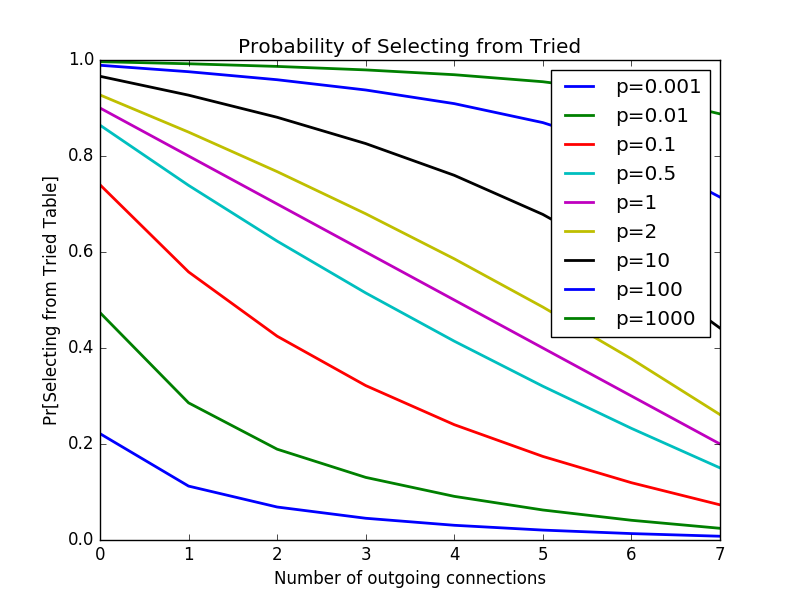
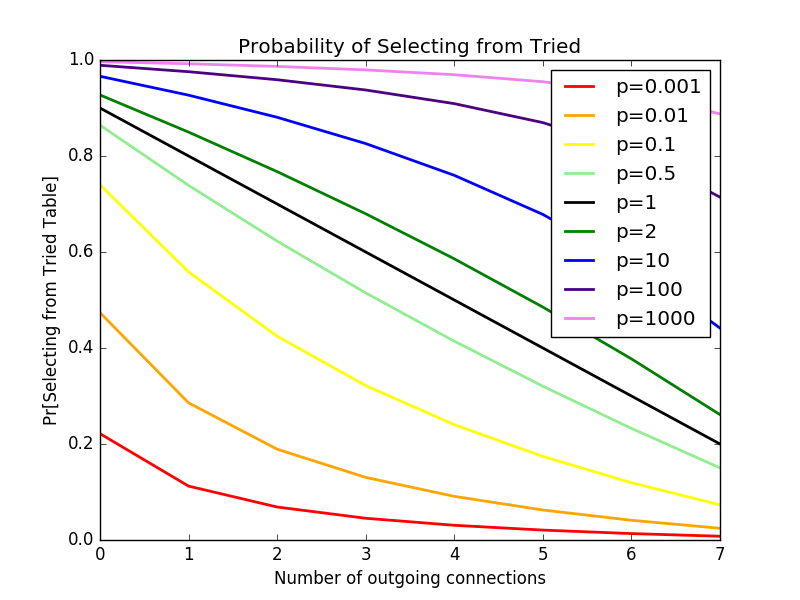
figure 2

diff --git a/eclipse/utils.py b/eclipse/utils.py
@@ -1,0 +1,38 @@
+import randomselection.utils
+
+
+def g(i, f, f_prime, tau_a, tau_l):
+    """Probability of ``i^{th}'' rejected address given it was also rejected on the ``i-1^{th}'' try.
+
+    :param i: (int) try number
+    :param f: (float) fraction of adversarial addresses in tried
+    :param f_prime: ||connected addresses|| / ||tried table|| (at best, 8/64^2)
+    :param tau_a: (duration) round length
+    :param tau_l: (duration) time invested in attack
+    :return: (float)
+    """
+    p_0 = randomselection.utils.acceptprob(i, 0)
+    p_a = randomselection.utils.acceptprob(i, tau_a)
+    p_l = randomselection.utils.acceptprob(i, tau_l)
+    return (1 - p_a) * f + (1 - p_0) * f_prime + (1 - p_l) * (1 - f - f_prime)
+
+
+def q(f, f_prime, tau_a, tau_l, n=100):
+    """Adverserial address accepted with probability ``q''
+
+    :param f: (float) fraction of adversarial addresses in tried
+    :param f_prime: ||connected addresses|| / ||tried table|| (at best, 8/64^2)
+    :param tau_a: (duration) round length
+    :param tau_l: (duration) time invested in attack
+    :param n: (int) iterations to perform
+    :return: (float)
+    """
+    s = 0
+    for r in range(1, n + 1):
+        m = randomselection.utils.acceptprob(r, tau_a)
+        prod = 1
+        for i in range(1, r):
+            prod *= g(i, f, f_prime, tau_a, tau_l)
+        s += f * m * prod
+    return s
+

diff --git a/randomselection/figure1.py b/randomselection/figure1.py
@@ -5,11 +5,12 @@ Plot of Outgoing Connections v. Pr[Selecting from Tried]
 """
 
 from randomselection import utils
-import numpy as np
 from matplotlib import pyplot as plt
+import numpy as np
 
 np.random.seed(0)
 rho_sample = (.001, .01, .1, .5, 1, 2, 10, 100, 1000)
+colors = ('red', 'orange', 'yellow', 'lightGreen', 'black', 'green', 'blue', 'indigo', 'violet')
 omega_sample = (0, 1, 2, 3, 4, 5, 6, 7)
 lines = [[0 for j in range(len(omega_sample))]
          for i in range(len(rho_sample))]
@@ -23,6 +24,6 @@ plt.title('Probability of Selecting from Tried')
 plt.xlabel('Number of outgoing connections')
 plt.ylabel('Pr[Selecting from Tried Table]')
 for i, line in enumerate(lines):
-    plt.plot(omega_sample, line, linewidth=2., label=u'p=%s' % (u'%.3f' % rho_sample[i]).rstrip(u'0').rstrip(u'.'))
+    plt.plot(omega_sample, line, color=colors[i], linewidth=2., label=u'p=%s' % (u'%.3f' % rho_sample[i]).rstrip(u'0').rstrip(u'.'))
 plt.legend(loc='upper right')
 plt.savefig('../figures/figure-1.png')

diff --git a/eclipse/figure2.py b/eclipse/figure2.py
@@ -1,0 +1,26 @@
+"""
+Plots the success of eclipse attacks.
+"""
+
+
+import eclipse.utils
+from matplotlib import pyplot as plt
+
+
+f_values = [i / 100. for i in range(101)]
+colors = ('red', 'orange', 'yellow', 'green', 'blue', 'indigo', 'violet')
+tau_l_values = (1, 2, 4, 5, 10, 24, 48)
+lines = [[0 for j in f_values] for i in tau_l_values]
+f_prime = 8 / 64 ** 2
+
+for i, tau_l in enumerate(tau_l_values):
+    for j, f in enumerate(f_values):
+        lines[i][j] = eclipse.utils.q(f, f_prime, .45, tau_l, n=10)
+
+plt.title('Probability of Eclipsing Node')
+plt.xlabel('Fraction of adverserial addresses in tried')
+plt.ylabel('Pr[Eclipsing node]')
+for i, line in enumerate(lines):
+    plt.plot(f_values, line, color=colors[i], linewidth=2., label='time invested: %d (hrs)' % tau_l_values[i])
+plt.legend(loc='lower right')
+plt.savefig('../figures/figure-2.png')

diff --git a/randomselection/utils.py b/randomselection/utils.py
@@ -15,12 +15,11 @@ def triedprob(rho, omega):
     return rho_freq / (1 + omega + rho_freq)
 
 
-def acceptprob(e, rejected, now):
+def acceptprob(i, tau):
     """Probability of accepting entry ``e''
 
     :param e: (tables.PeerEntry) the candidate entry
-    :param rejected: (int) number of rejected entries
-    :param now: (timestamp) the current timestamp
+    :param i: (int) number of rejected entries
+    :param tau: (duration) the elapsed time
     """
-    tau = abs(now - e.timestamp)
-    return min(1, 1.2 ** rejected / (1 + tau))
+    return min(1, 1.2 ** i / (1 + tau))
